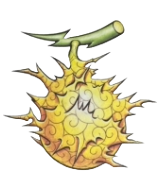
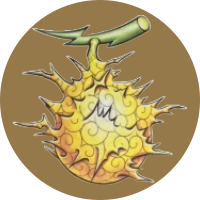
Replace images and adjust sizes

diff --git a/src/pages/devil-fruit-game/service/devilFruit.ts b/src/pages/devil-fruit-game/service/devilFruit.ts
@@ -5,60 +5,92 @@ type DevilFruitDefinition = {
   label: string;
   radius: number;
   fillStyle: string;
-  texture: string;
+  texture: {
+    img: string;
+    width: number;
+    height: number;
+  };
 };
 
-const creationLevel = 4;
+const maxLevelOffset = 4;
 
 const definitions: DevilFruitDefinition[] = [
   {
     level: 0,
     label: "fruit_0",
-    radius: 10,
+    radius: 20,
     fillStyle: "#ff0000",
-    texture: "image/fruit/barabara.png",
+    texture: {
+      img: "image/fruit/barabara.png",
+      width: 160,
+      height: 160,
+    },
   },
   {
     level: 1,
     label: "fruit_1",
-    radius: 20,
+    radius: 30,
     fillStyle: "#00ff00",
-    texture: "image/fruit/utauta.png",
+    texture: {
+      img: "image/fruit/utauta.png",
+      width: 160,
+      height: 160,
+    },
   },
   {
     level: 2,
     label: "fruit_2",
-    radius: 30,
+    radius: 40,
     fillStyle: "#0000ff",
-    texture: "image/fruit/hanahana.png",
+    texture: {
+      img: "image/fruit/hanahana.png",
+      width: 160,
+      height: 160,
+    },
   },
   {
     level: 3,
     label: "fruit_3",
-    radius: 40,
+    radius: 50,
     fillStyle: "#ffff00",
-    texture: "image/fruit/gorogoro.png",
+    texture: {
+      img: "image/fruit/gorogoro.png",
+      width: 160,
+      height: 160,
+    },
   },
   {
     level: 4,
     label: "fruit_4",
-    radius: 50,
+    radius: 60,
     fillStyle: "#ff00ff",
-    texture: "image/fruit/meramera.png",
+    texture: {
+      img: "image/fruit/yamiyami.png",
+      width: 160,
+      height: 160,
+    },
   },
   {
     level: 5,
     label: "fruit_5",
-    radius: 60,
+    radius: 80,
     fillStyle: "#00ffff",
-    texture: "image/fruit/yamiyami.png",
+    texture: {
+      img: "image/fruit/meramera.png",
+      width: 160,
+      height: 160,
+    },
   },
   {
     level: 6,
     label: "fruit_6",
-    radius: 70,
+    radius: 100,
     fillStyle: "#ffffff",
-    texture: "image/fruit/gomugomu.png",
+    texture: {
+      img: "image/fruit/gomugomu.png",
+      width: 160,
+      height: 160,
+    },
   },
 ];
 
@@ -70,17 +102,20 @@ export const createDevilFruit = (
   const definition = definitions[level];
 
   if (definition) {
+    const scale = (definition.radius * 2) / 200;
+
     return Bodies.circle(x, y, definition.radius, {
       label: definition.label,
       density: 0.001,
+      frictionAir: 0.03,
       restitution: 0.5,
       friction: 0.1,
       render: {
-        // fillStyle: definition.fillStyle,
+        fillStyle: definition.fillStyle,
         sprite: {
-          texture: definition.texture,
-          xScale: (definition.radius * 2) / 100,
-          yScale: (definition.radius * 2) / 100,
+          texture: definition.texture.img,
+          xScale: scale,
+          yScale: scale,
         },
       },
     });
@@ -90,7 +125,7 @@ export const createDevilFruit = (
 };
 
 export const createRandomDevilFruit = (x: number, y: number): Body | null => {
-  const level = Math.floor(Math.random() * creationLevel);
+  const level = Math.floor(Math.random() * maxLevelOffset);
   return createDevilFruit(x, y, level);
 };
 

diff --git a/src/pages/devil-fruit-game/service/DevilFruitGame.ts b/src/pages/devil-fruit-game/service/DevilFruitGame.ts
@@ -33,10 +33,11 @@ export class DevilFruitGame {
       element: fruitsBox,
       engine: this.#engine,
       options: {
+        background: "transparent",
         width: BOX_WIDTH,
         height: BOX_HEIGHT,
+        pixelRatio: window.devicePixelRatio,
         wireframes: false,
-        background: "transparent",
       },
     });
 
